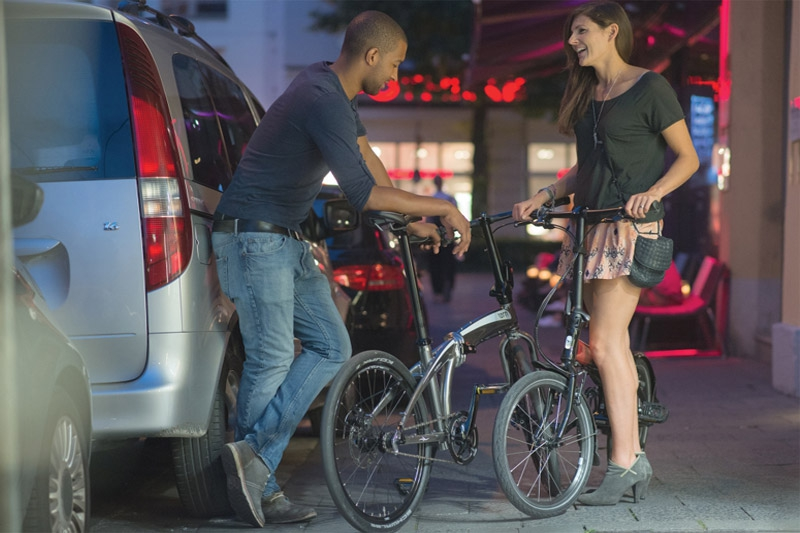
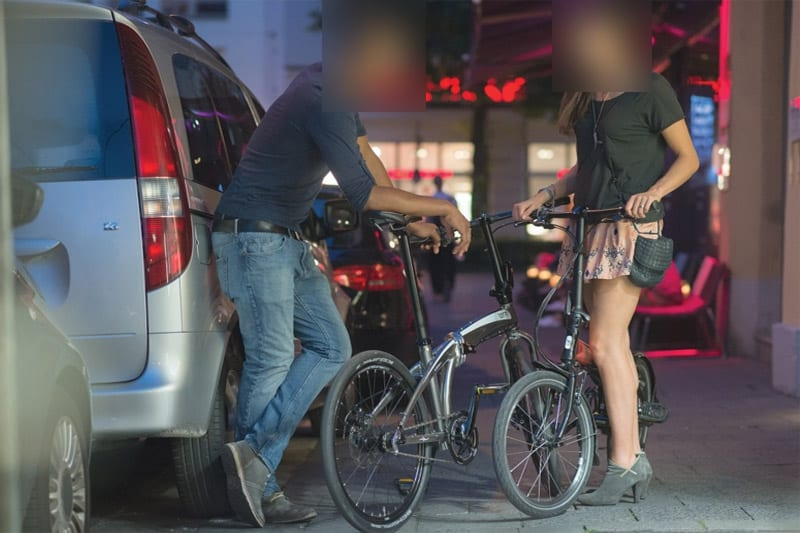
Correzioni dopo l'esame: frasi inventate, privacy, volti, telefoni stretti
- Galleria: tolte «bici uscite dal negozio e finite in giro per il mondo»
  e «dalle uscite»; il sottotitolo è il loro «Where urban meets
  expedition»; la nota non promette più post «ogni giorno»
- Officina: il testo è quello del loro sito (niente «stagionale» né
  «revisione completa», che non avevano mai scritto)
- «Slow bike»: la loro frase intera e nel loro ordine
- Privacy: tolti i paragrafi su recensioni, WhatsApp e prenotazioni, che
  nella pagina non ci sono
- Piede: «Sito dimostrativo realizzato da Bespoke Studio»
- Foto della pieghevole: i due volti sfocati
- Testata: niente backdrop-filter; sui telefoni da 320-400 px resta nello
  schermo anche coi caratteri di riserva

Changed region(s): [[0.4062, 0.0, 0.5312, 0.2101], [0.6875, 0.0, 0.8125, 0.1801]]

diff --git a/js/main.js b/js/main.js
@@ -38,24 +38,24 @@
       rp3_tag: 'Check-up · restyling · special',
       rp3_alt: 'Bicicletta da viaggio in un angolo urbano notturno',
       ws_title: "L'officina è il cuore",
-      ws_p1: 'Qui ci prendiamo cura dei vostri mezzi: dal check-up stagionale alla revisione completa, dal restyling alla personalizzazione. Solo componenti di qualità, pezzi di ricambio originali, strumenti professionali — e la mano di chi le bici le ama davvero.',
-      ws_s1: 'Check-up e messa a punto stagionale',
+      ws_p1: 'Dove ci prendiamo cura dei vostri mezzi, dove eseguiamo check-up, restyling e personalizzazioni con professionalità e competenza. È anche il luogo dove nascono le "special" più belle e ardite. Utilizziamo esclusivamente componenti di qualità, pezzi di ricambio originali, prodotti specifici, strumenti e attrezzi professionali.',
+      ws_s1: 'Check-up dei vostri mezzi',
       ws_s2: 'Riparazioni con ricambi originali',
       ws_s3: 'Restyling e personalizzazioni',
       ws_s4: 'Le "special" su misura, dalla prima idea all\'ultima vite',
       ws_note: "Il menù dell'officina, coi tempi e i prezzi del momento, ve lo diciamo al banco o al telefono.",
       gal_title: '#lifeinbikerepublic',
-      gal_sub: 'Bici uscite dal negozio e finite in giro per il mondo — dalle pagine della Repubblica.',
+      gal_sub: 'Where urban meets expedition.',
       g1_alt: 'Bici da viaggio color crema appoggiata a un muretto lungo un fiume, con un ponte di ferro alle spalle',
       g2_alt: 'City bike cromata su una strada sterrata',
       g3_alt: 'Dettaglio del manubrio di una city bike azzurra in strada',
       g4_alt: 'Mountain bike rossa davanti a un canyon con cascata',
       g5_alt: 'Bici da viaggio con targa Cairo to Cape Town in un campo di grano',
-      g6_alt: 'Due persone di sera caricano una bici pieghevole vicino a un furgone',
-      gal_note: 'Le foto vengono dalle pagine e dalle uscite di Bike Republic. Il resto è ogni giorno su Instagram.',
+      g6_alt: 'Due persone con le loro bici pieghevoli, di sera in città',
+      gal_note: 'Le foto vengono dal sito di Bike Republic. Altre su Instagram.',
       ig_cta: 'Segui @bikerepublicmilano',
-      slow_q: "«Il vento sul viso, il battito del cuore che aumenta, il paesaggio che scorre, il sorriso spontaneo, il senso di libertà e leggerezza: cosa c'è di più divertente di un semplice giro in bicicletta?»",
-      slow_c: 'Slow bike — la filosofia della casa',
+      slow_q: "«Cosa c'è di più divertente di un semplice giro in bicicletta? Il vento sul viso, il battito del cuore che aumenta, il paesaggio che scorre, il sorriso spontaneo, il senso di libertà e leggerezza... rivivi queste emozioni regalandoti una bella bici, da Bike Republic ne abbiamo tante.»",
+      slow_c: 'Slow bike',
       hours_title: 'Orari e dove',
       hours_sub: 'A trenta metri dalla chiesa di San Cristoforo, a fianco della Canottieri Olona.',
       hours_caption: 'Orari di apertura',
@@ -70,6 +70,7 @@
       f_where: 'Dove',
       f_what: 'Il negozio',
       f_line: 'Negozio e officina indipendente: strumenti evoluti per la mobilità urbana, dal 2012.',
+      f_demo: 'Sito dimostrativo realizzato da',
       aria_top: 'Bike Republic — torna su',
       aria_nav: 'Navigazione principale'
     },
@@ -106,24 +107,24 @@
       rp3_tag: 'Check-ups · restyling · specials',
       rp3_alt: 'A touring bicycle in an urban corner at night',
       ws_title: 'The workshop is the heart',
-      ws_p1: 'This is where we take care of your ride: from the seasonal check-up to full overhauls, from restyling to customisation. Only quality components, original spare parts, professional tools — and the hands of people who truly love bikes.',
-      ws_s1: 'Seasonal check-up and tune-up',
+      ws_p1: 'Where we take care of your bikes, carrying out check-ups, restyling and customisation with skill and expertise. It is also where the most beautiful and daring "specials" are born. We only use quality components, original spare parts, specific products and professional tools.',
+      ws_s1: 'Check-ups for your bikes',
       ws_s2: 'Repairs with original spare parts',
       ws_s3: 'Restyling and customisation',
       ws_s4: 'Made-to-measure "specials", from first idea to last bolt',
       ws_note: "The workshop menu, with current times and prices, is at the counter — or a phone call away.",
       gal_title: '#lifeinbikerepublic',
-      gal_sub: 'Bikes that left the shop and ended up around the world — from the pages of the Republic.',
+      gal_sub: 'Where urban meets expedition.',
       g1_alt: 'A cream touring bike leaning on a low wall by a river, with an iron bridge behind',
       g2_alt: 'A chrome city bike on a gravel road',
       g3_alt: 'Handlebar detail of a light-blue city bike in the street',
       g4_alt: 'A red mountain bike in front of a canyon with a waterfall',
       g5_alt: 'A touring bike with a Cairo to Cape Town plate in a wheat field',
-      g6_alt: 'Two people loading a folding bike by a van at night',
-      gal_note: 'The photos come from Bike Republic’s pages and rides. The rest is on Instagram, every day.',
+      g6_alt: 'Two people with their folding bikes, in the city at night',
+      gal_note: 'The photos come from Bike Republic’s website. More on Instagram.',
       ig_cta: 'Follow @bikerepublicmilano',
-      slow_q: '“The wind on your face, your heartbeat rising, the landscape rolling by, the spontaneous smile, the sense of freedom and lightness: what could be more fun than a simple bike ride?”',
-      slow_c: 'Slow bike — the house philosophy',
+      slow_q: '“What could be more fun than a simple bike ride? The wind on your face, your heartbeat rising, the landscape rolling by, the spontaneous smile, the sense of freedom and lightness... relive these feelings with a good bike: at Bike Republic we have plenty.”',
+      slow_c: 'Slow bike',
       hours_title: 'Hours & location',
       hours_sub: 'Thirty metres from the San Cristoforo church, right next to the Canottieri Olona rowing club.',
       hours_caption: 'Opening hours',
@@ -138,6 +139,7 @@
       f_where: 'Find us',
       f_what: 'The shop',
       f_line: 'An independent shop and workshop: evolved tools for urban mobility, since 2012.',
+      f_demo: 'Demo website made by',
       aria_top: 'Bike Republic — back to top',
       aria_nav: 'Main navigation'
     }

diff --git a/index.html b/index.html
@@ -20,7 +20,7 @@
   <link rel="apple-touch-icon" href="apple-touch-icon.png?v=1">
   <script>document.documentElement.classList.add('js')</script>
   <link rel="stylesheet" href="fonts/fonts.css?v=1">
-  <link rel="stylesheet" href="css/style.css?v=1">
+  <link rel="stylesheet" href="css/style.css?v=2">
   <script type="application/ld+json">
   {
     "@context": "https://schema.org",
@@ -184,9 +184,9 @@
     <section class="officina" id="officina">
       <div class="officina-inner">
         <h2 class="sezione-titolo sezione-titolo-chiara" data-i18n="ws_title">L'officina è il cuore</h2>
-        <p class="officina-testo" data-i18n="ws_p1">Qui ci prendiamo cura dei vostri mezzi: dal check-up stagionale alla revisione completa, dal restyling alla personalizzazione. Solo componenti di qualità, pezzi di ricambio originali, strumenti professionali — e la mano di chi le bici le ama davvero.</p>
+        <p class="officina-testo" data-i18n="ws_p1">Dove ci prendiamo cura dei vostri mezzi, dove eseguiamo check-up, restyling e personalizzazioni con professionalità e competenza. È anche il luogo dove nascono le "special" più belle e ardite. Utilizziamo esclusivamente componenti di qualità, pezzi di ricambio originali, prodotti specifici, strumenti e attrezzi professionali.</p>
         <ul class="officina-voci">
-          <li><span class="ov-num mono">01</span><span data-i18n="ws_s1">Check-up e messa a punto stagionale</span></li>
+          <li><span class="ov-num mono">01</span><span data-i18n="ws_s1">Check-up dei vostri mezzi</span></li>
           <li><span class="ov-num mono">02</span><span data-i18n="ws_s2">Riparazioni con ricambi originali</span></li>
           <li><span class="ov-num mono">03</span><span data-i18n="ws_s3">Restyling e personalizzazioni</span></li>
           <li><span class="ov-num mono">04</span><span data-i18n="ws_s4">Le "special" su misura, dalla prima idea all'ultima vite</span></li>
@@ -199,16 +199,16 @@
     <!-- ============ LA GALLERY ============ -->
     <section class="sezione" id="gallery">
       <h2 class="sezione-titolo" data-i18n="gal_title">#lifeinbikerepublic</h2>
-      <p class="sezione-sub" data-i18n="gal_sub">Bici uscite dal negozio e finite in giro per il mondo — dalle pagine della Repubblica.</p>
+      <p class="sezione-sub" data-i18n="gal_sub">Where urban meets expedition.</p>
       <div class="galleria">
         <figure class="g-foto g-larga reveal"><img src="assets/img/g-fiume.jpg" alt="Bici da viaggio color crema appoggiata a un muretto lungo un fiume, con un ponte di ferro alle spalle" data-i18n-alt="g1_alt" width="1200" height="800"></figure>
         <figure class="g-foto reveal"><img src="assets/img/g-cromata.jpg" alt="City bike cromata su una strada sterrata" data-i18n-alt="g2_alt" width="800" height="600"></figure>
         <figure class="g-foto reveal"><img src="assets/img/g-blu.jpg" alt="Dettaglio del manubrio di una city bike azzurra in strada" data-i18n-alt="g3_alt" width="800" height="600"></figure>
         <figure class="g-foto reveal"><img src="assets/img/g-canyon.jpg" alt="Mountain bike rossa davanti a un canyon con cascata" data-i18n-alt="g4_alt" width="800" height="600"></figure>
         <figure class="g-foto reveal"><img src="assets/img/g-cairo.jpg" alt="Bici da viaggio con targa Cairo to Cape Town in un campo di grano" data-i18n-alt="g5_alt" width="800" height="600"></figure>
-        <figure class="g-foto g-piena reveal"><img src="assets/img/g-pieghevole.jpg" alt="Due persone di sera caricano una bici pieghevole vicino a un furgone" data-i18n-alt="g6_alt" width="1200" height="800"></figure>
+        <figure class="g-foto g-piena reveal"><img src="assets/img/g-pieghevole.jpg?v=2" alt="Due persone con le loro bici pieghevoli, di sera in città" data-i18n-alt="g6_alt" width="1200" height="800"></figure>
       </div>
-      <p class="galleria-nota" data-i18n="gal_note">Le foto vengono dalle pagine e dalle uscite di Bike Republic. Il resto è ogni giorno su Instagram.</p>
+      <p class="galleria-nota" data-i18n="gal_note">Le foto vengono dal sito di Bike Republic. Altre su Instagram.</p>
       <div class="galleria-cta">
         <a class="btn btn-quieto" href="https://www.instagram.com/bikerepublicmilano/" target="_blank" rel="noopener" data-i18n="ig_cta">Segui @bikerepublicmilano</a>
       </div>
@@ -217,8 +217,8 @@
     <!-- ============ SLOW BIKE ============ -->
     <section class="slowbike">
       <blockquote class="slowbike-inner">
-        <p data-i18n="slow_q">«Il vento sul viso, il battito del cuore che aumenta, il paesaggio che scorre, il sorriso spontaneo, il senso di libertà e leggerezza: cosa c'è di più divertente di un semplice giro in bicicletta?»</p>
-        <cite class="mono" data-i18n="slow_c">Slow bike — la filosofia della casa</cite>
+        <p data-i18n="slow_q">«Cosa c'è di più divertente di un semplice giro in bicicletta? Il vento sul viso, il battito del cuore che aumenta, il paesaggio che scorre, il sorriso spontaneo, il senso di libertà e leggerezza... rivivi queste emozioni regalandoti una bella bici, da Bike Republic ne abbiamo tante.»</p>
+        <cite class="mono" data-i18n="slow_c">Slow bike</cite>
       </blockquote>
     </section>
 
@@ -274,9 +274,9 @@
       </div>
     </div>
     <p class="footer-legal">© <span data-current-year>2026</span> Bike Republic — Alzaia Naviglio Grande 144, 20144 Milano · P.IVA 07860120968</p>
-    <p class="privacy-link"><a href="privacy.html">Privacy</a></p>
+    <p class="privacy-link"><span data-i18n="f_demo">Sito dimostrativo realizzato da</span> <a href="https://bespokestud.io" rel="noopener">Bespoke Studio</a> · <a href="privacy.html">Privacy</a></p>
 </footer>
 
-  <script src="js/main.js?v=2"></script>
+  <script src="js/main.js?v=3"></script>
 </body>
 </html>

diff --git a/privacy.html b/privacy.html
@@ -21,7 +21,7 @@
 <main>
   <p><a href="index.html">← Torna al sito</a></p>
   <h1>Privacy e cookie</h1>
-  <p class="data">Aggiornata il 1° ottobre 2026 · <a href="#english" lang="en">English below</a></p>
+  <p class="data">Aggiornata il 4 ottobre 2026 · <a href="#english" lang="en">English below</a></p>
   <h2>Chi gestisce questo sito</h2>
   <p>Questo è un sito dimostrativo preparato da <a href="https://bespokestud.io" rel="noopener">Bespoke Studio</a> per Bike Republic. Finché resta una dimostrazione lo gestisce Bespoke Studio, che è titolare dei pochi dati tecnici descritti qui. Per qualsiasi domanda: <a href="mailto:info@bespokestud.io">info@bespokestud.io</a>.</p>
   <h2>Cosa raccoglie</h2>
@@ -34,9 +34,7 @@
   <p>Il sito salva nel tuo browser solo preferenze tecniche (<code>bikerepublic-lang</code>), per esempio la lingua scelta. Restano sul tuo dispositivo, non servono a riconoscerti e non richiedono il consenso (art. 122 del Codice privacy; linee guida del Garante del 10 giugno 2021).</p>
   
   <h2>Link esterni</h2>
-  <p>I link verso Instagram, Facebook, WhatsApp, piattaforme di prenotazione o Google Maps portano su siti di altri: fino al clic non succede nulla, dopo valgono le loro informative.</p>
-  <h2>Recensioni</h2>
-  <p>Nella pagina ci sono brevi estratti di recensioni pubbliche, con il nome come compare sulla piattaforma d’origine. Se sei l’autore di una recensione e vuoi che il tuo estratto sia tolto, scrivici: lo togliamo.</p>
+  <p>I link verso Instagram, Facebook o Google Maps portano su siti di altri: fino al clic non succede nulla, dopo valgono le loro informative.</p>
   <h2>I tuoi diritti</h2>
   <p>Puoi chiedere di accedere ai tuoi dati, correggerli, cancellarli, limitarne l’uso od opporti al trattamento (artt. 15–22 del Regolamento UE 2016/679), e puoi presentare reclamo al <a href="https://www.garanteprivacy.it" rel="noopener">Garante per la protezione dei dati personali</a>.</p>
   <div class="en" id="english" lang="en">
@@ -48,10 +46,9 @@
     <p><strong>Cookies.</strong> The site sets no cookies of its own.</p>
     <p>The site stores only technical preferences in your browser (<code>bikerepublic-lang</code>), such as the language you chose. They stay on your device, are not used to recognise you and need no consent.</p>
     
-    <p><strong>External links.</strong> Links to Instagram, Facebook, WhatsApp, booking platforms or Google Maps lead to other sites: nothing happens until you click, then their policies apply.</p>
-    <p><strong>Reviews.</strong> The page quotes short extracts of public reviews, with the name as shown on the original platform. If you wrote one and want it removed, write to us and we will take it down.</p>
+    <p><strong>External links.</strong> Links to Instagram, Facebook or Google Maps lead to other sites: nothing happens until you click, then their policies apply.</p>
     <p><strong>Your rights.</strong> You can ask to access, correct or delete your data, restrict its use or object to it (Arts. 15–22 GDPR), and you can complain to the Italian data protection authority, the <a href="https://www.garanteprivacy.it" rel="noopener">Garante per la protezione dei dati personali</a>.</p>
-    <p class="data">Last updated 1 October 2026.</p>
+    <p class="data">Last updated 4 October 2026.</p>
   </div>
 </main>
 </body>

diff --git a/css/style.css b/css/style.css
@@ -216,9 +216,7 @@ a { color: inherit; }
   align-items: center;
   gap: 1rem;
   padding: .65rem clamp(1rem, 3vw, 1.6rem);
-  background: rgba(245, 241, 234, .93);
-  -webkit-backdrop-filter: blur(8px);
-  backdrop-filter: blur(8px);
+  background: rgb(245, 241, 234);
   border-bottom: 1px solid var(--linea);
 }
 
@@ -329,6 +327,25 @@ a { color: inherit; }
   .wordmark { font-size: 1rem; }
   .topbar { gap: .6rem; }
 }
+
+/* telefoni stretti (320–400 px): la testata deve stare nello schermo anche coi caratteri di riserva */
+@media (max-width: 400px) {
+  .topbar { gap: .45rem; padding-left: .8rem; padding-right: .8rem; }
+  .topbar-actions { gap: .35rem; }
+  .nav-toggle { padding: .45rem .6rem; }
+  .nav-toggle [data-i18n="menu"] {
+    position: absolute; width: 1px; height: 1px; overflow: hidden;
+    clip: rect(0 0 0 0); clip-path: inset(50%); white-space: nowrap;
+  }
+  .lang-sep { display: none; }
+  .btn-small { padding: .5rem .8rem; }
+}
+@media (max-width: 340px) {
+  .wordmark { font-size: .9rem; }
+  .lang-btn { padding: .25rem .15rem; }
+}
+/* coi caratteri di riserva (Anton non ancora arrivato) i titoli lunghi vanno a capo invece di allargare la pagina */
+.hero-titolo, .sezione-titolo { overflow-wrap: anywhere; }
 
 /* ---------- hero duotone ---------- */
 
